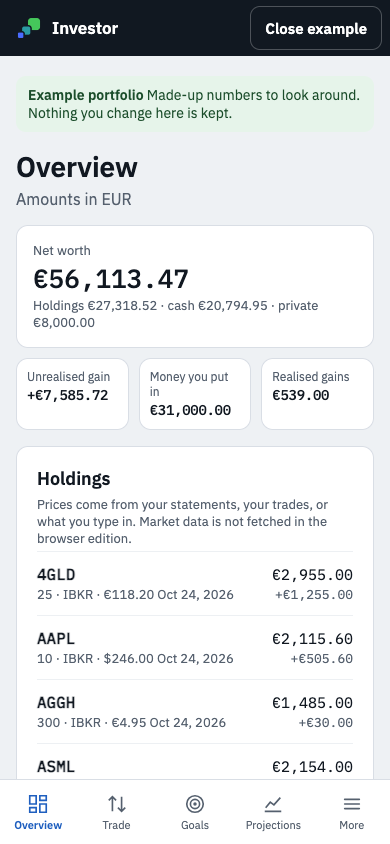
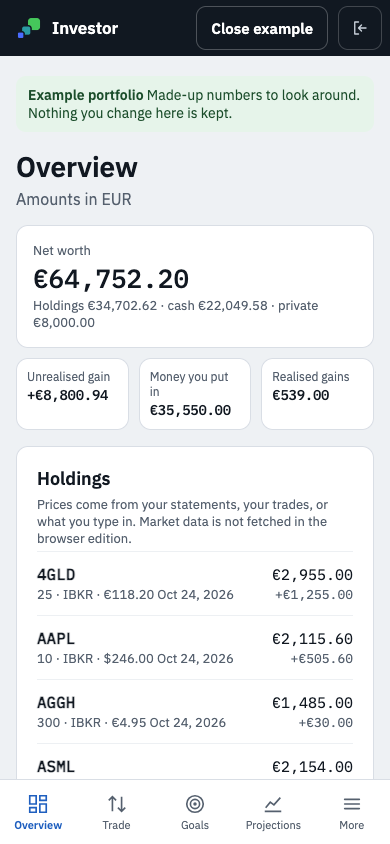
Retake the marketing screenshots with the current example
Overview, trade, projections, tax and phone shots now show the five-currency
example, physical gold and the folded trade fields. The trade preview names
coins and bars ("Gold") instead of XAU and leaves them out of symbol hints.

diff --git a/web/src/screens/Trade.svelte b/web/src/screens/Trade.svelte
@@ -122,6 +122,9 @@
   const endBefore = $derived(o?.before.at(-1))
   const endAfter = $derived(o?.after.at(-1))
   const thisYear = now.getFullYear()
+  // Coins and bars show by name; they are bought and sold on Overview, not here.
+  const METALS: Record<string, 'gold' | 'silver' | 'platinum' | 'palladium'> = { XAU: 'gold', XAG: 'silver', XPT: 'platinum', XPD: 'palladium' }
+  const label = (symbol: string) => (METALS[symbol] ? t(`metal.${METALS[symbol]}` as const) : symbol)
   const compact = (v: number) => new Intl.NumberFormat(i18n.lang, { notation: 'compact', maximumFractionDigits: 1 }).format(v)
 
   // The largest share of the investments, before and after the trade.
@@ -206,7 +209,7 @@
         <input list="known-symbols" value={form.symbol} onchange={(e) => chooseSymbol(e.currentTarget.value)} autocapitalize="characters" required />
         <span class="hint">{t('trade.symbolHint')}</span>
       </label>
-      <datalist id="known-symbols">{#each s.instruments as i (i.symbol)}<option value={i.symbol}>{i.name ?? ''}</option>{/each}</datalist>
+      <datalist id="known-symbols">{#each s.instruments.filter((i) => !METALS[i.symbol]) as i (i.symbol)}<option value={i.symbol}>{i.name ?? ''}</option>{/each}</datalist>
       {#if form.symbol && !s.instruments.some((i) => i.symbol === form.symbol)}
         <div class="row fields">
           <label class="field">{t('trade.name')}<input bind:value={form.name} /></label>
@@ -342,14 +345,14 @@
         <div class="bars">
           {#each o.holdings as h (h.symbol)}
             <div class="bar-row" class:this={h.symbol === input.symbol}>
-              <span class="sym">{h.symbol}</span>
+              <span class="sym">{label(h.symbol)}</span>
               <span class="track"><span class="b before" style:width="{(Number(h.before) / scale) * 100}%"></span><span class="b after" style:width="{(Number(h.after) / scale) * 100}%"></span></span>
               <span class="num small">{whole(Number(h.before), base)} → {whole(Number(h.after), base)}</span>
             </div>
           {/each}
         </div>
         <p class="legend muted small"><i class="sw before"></i>{t('trade.before')} <i class="sw after"></i>{t('trade.after')}</p>
-        {#if biggest && concentrates}<p class="notice">{t('trade.concentrated', { symbol: biggest.symbol, share: percent(biggest.share) })}</p>{/if}
+        {#if biggest && concentrates}<p class="notice">{t('trade.concentrated', { symbol: label(biggest.symbol), share: percent(biggest.share) })}</p>{/if}
       </section>
 
       {#if bufferTarget > 0}

diff --git a/web/index.html b/web/index.html
@@ -41,7 +41,7 @@
       </section>
 
       <figure class="shot">
-        <img src="/shots/overview.png" width="1440" height="900" alt="The example portfolio's Overview: net worth, nine holdings at their latest prices, a savings account and a private stake." />
+        <img src="/shots/overview.png" width="1440" height="900" alt="The example portfolio's Overview: net worth and holdings in euros, dollars, Swiss francs and Danish kroner at their latest prices." />
       </figure>
 
       <section id="example" class="example" aria-labelledby="example-title">
